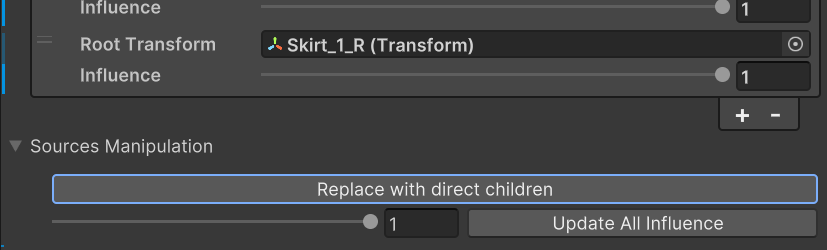
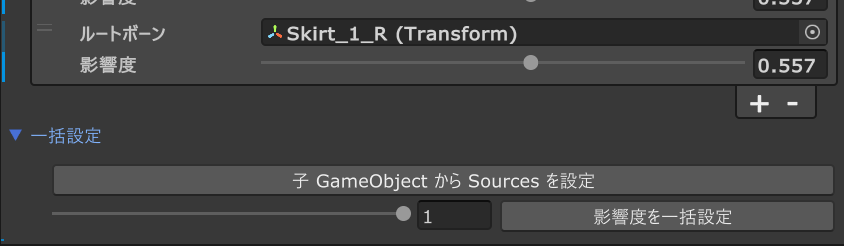
Update localized appearance

diff --git a/content/ndmf-plugin/bone-array-rotation-influence/_index.md b/content/ndmf-plugin/bone-array-rotation-influence/_index.md
@@ -20,22 +20,22 @@ images = ["component-initial.png"]
 
 それぞれの項目について、以下のように設定します。
 
--   **Bone array is close loop**: 設定するボーン配列が輪をなしている(最初の要素と最後の要素が隣あわせになる)場合はチェックを入れてください。
--   **Offset Distance**: 元のボーンから親になる仮のボーンをどれだけ離すかの設定です。デフォルトは 1cm ですが、荒ぶりが気になる場合は値を小さくしてください。
--   **Sources**: ボーン配列と、それぞれのボーンが隣の要素から影響を受ける度合いです。リストの順番が意味をもつので、上から下に向かって順番に輪になるように設定してください。
+- **ループ状のボーン列**: 設定するボーン配列が輪をなしている(最初の要素と最後の要素が隣あわせになる)場合はチェックを入れてください。
+- **オフセット距離**: 元のボーンから親になる仮のボーンをどれだけ離すかの設定です。デフォルトは 1cm ですが、荒ぶりが気になる場合は値を小さくしてください。
+- **ボーン列**: ボーン配列と、それぞれのボーンが隣の要素から影響を受ける度合いです。リストの順番が意味をもつので、上から下に向かって順番に輪になるように設定してください。
 
 これでアバターのビルド時に親ボーンの挿入と Rotation Constraint の挿入が非破壊的に実行されるようになります。必要に応じて Influence の値を適宜調整してください。
 
-### Sources Manipulation (自動設定)
+### 一括設定
 
 ![Sources Manipulation](./sources-manipulation.png?width=480px "Sources Manipulation を開いた状態")
 
 上述したようなスカートボーンの共通の親に設置した場合などに便利な操作が含まれています。
 
--   **Replace with direct children**: このコンポーネントが付いている GameObject の直接の子をリストに設定します。
-    -   Influence は下のスライダーの値を採用します。デフォルトは 1.0 です。
-    -   リストに設定される順番は Hierarchy に上から並んでいる順ではなく、このコンポーネントが付いている GameObject の Y 軸正側 から見た XZ 軸で Z 軸に近いものから左周りになります。**要するに、いい感じにぐるっと輪になるような順番になります。**
--   **Update All Influence**: 左側のスライダーの値で全ての Influence を更新します。
+- **子 GameObject から Sources を設定**: このコンポーネントが付いている GameObject の直接の子をリストに設定します。
+    - Influence は下のスライダーの値を採用します。デフォルトは 1.0 です。
+    - リストに設定される順番は Hierarchy に上から並んでいる順ではなく、このコンポーネントが付いている GameObject の Y 軸正側 から見た XZ 軸で Z 軸に近いものから左周りになります。**要するに、いい感じにぐるっと輪になるような順番になります。**
+- **影響度を一括設定**: 左側のスライダーの値で全ての Influence を更新します。
 
 ## その他
 
